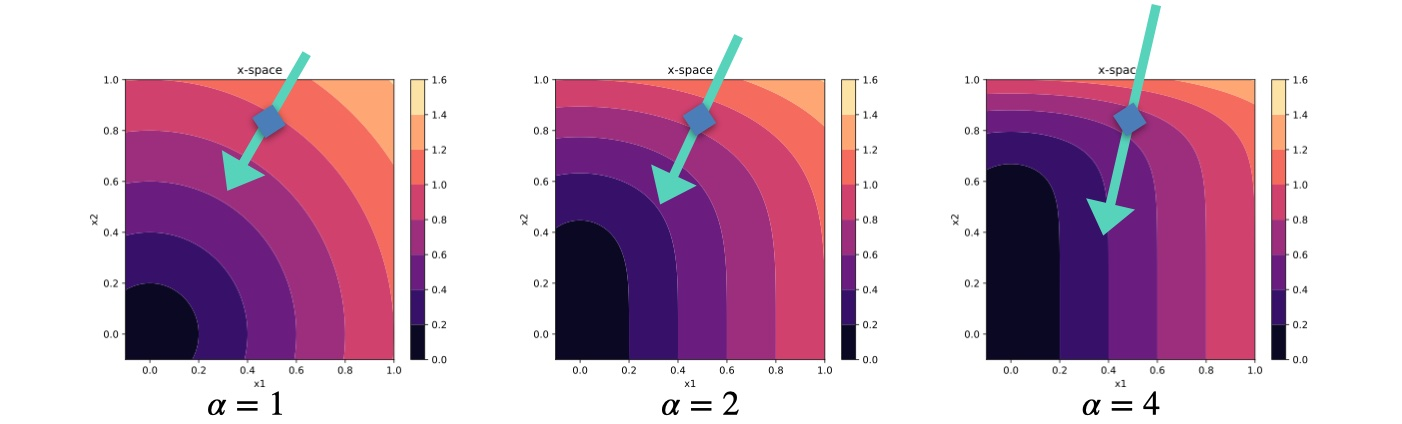
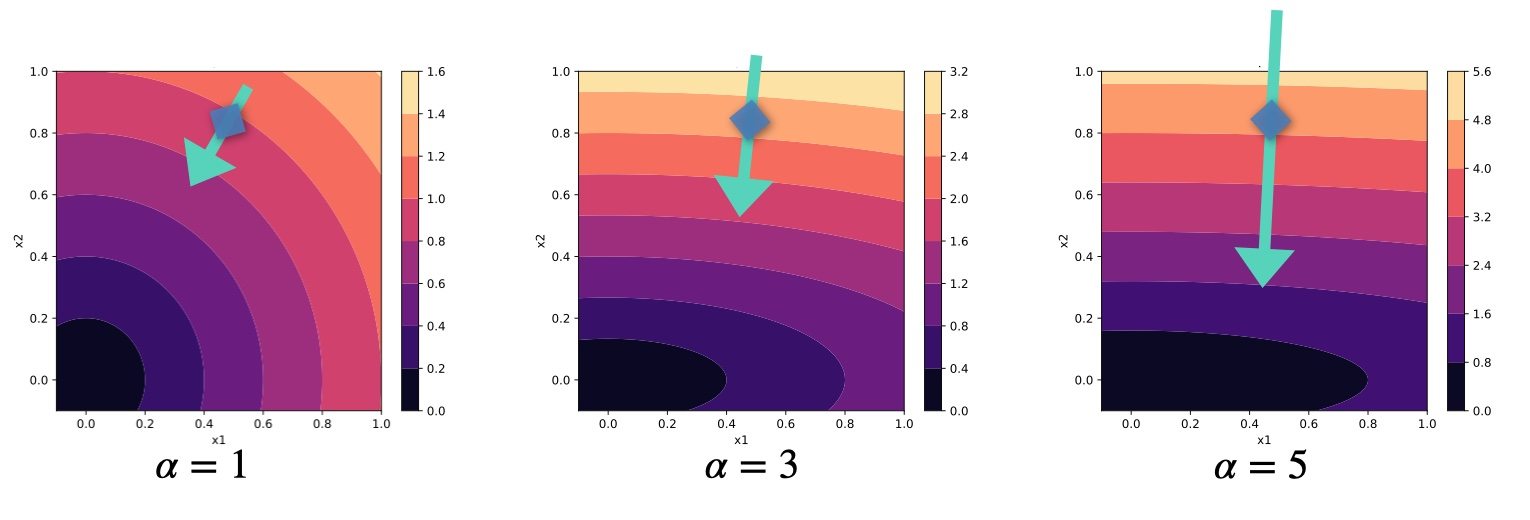
updated scaling example

diff --git a/physgrad.md b/physgrad.md
@@ -32,12 +32,12 @@ Below, we'll proceed in the following steps:
 Before diving into the details of different optimizers, the following paragraphs should provide some intuition for why this is important. As mentioned above, all methods discussed so far have used gradients, and the main reason for moving towards different updates is that they have some fundamental scaling issues in multi-dimensional settings.
 
 For 1D problems, this can easily be "fixed" by choosing a good learning rate, but interestingly, as soon
-as we go to 2D, things become more tricky. Let's consider a very simple toy "physics" function in two dimensions, which simply applies an exponent $\alpha$ to the second component. Afterwards we're computing an $L^2$ "loss" of the result:
+as we go to 2D, things become more tricky. Let's consider a very simple toy "physics" function in two dimensions, which simply applies a factor $\alpha$ to the second component. Afterwards we're computing an $L^2$ "loss" of the result:
 
 $$ \mathcal P(x_1,x_2) = 
 \begin{bmatrix} 
   x_1 \\
-  x_2^{~\alpha}
+  \alpha ~ x_2
 \end{bmatrix}  \text{ with }  L(\mathcal P) = |\mathcal P|^2 
 $$
 
@@ -48,7 +48,7 @@ For $\alpha=1$ everything is very simple: we're faced with a radial symmetric lo
 height: 200px
 name: physgrad-scaling
 ---
-Loss landscapes in $x$ for different $\alpha$ of the 2D example problem, with an example update step $- \nabla_x$ shown in green for each case.
+Loss landscapes in $x$ for different $\alpha$ of the 2D example problem. The green arrows visualize an example update step $- \nabla_x$ (not exactly to scale) for each case.
 ```
 
 However, within this book we're targeting _physical_ learning problems, and hence we have physical functions integrated into the learning process, as discussed at length for differentiable physics approaches. This is fundamentally different! The physics functions pretty much always will introduce a scaling of the different components. In our toy problem we can mimic this by choosing different values for $\alpha$, as shown in the middle and right graphs of the figure above.
